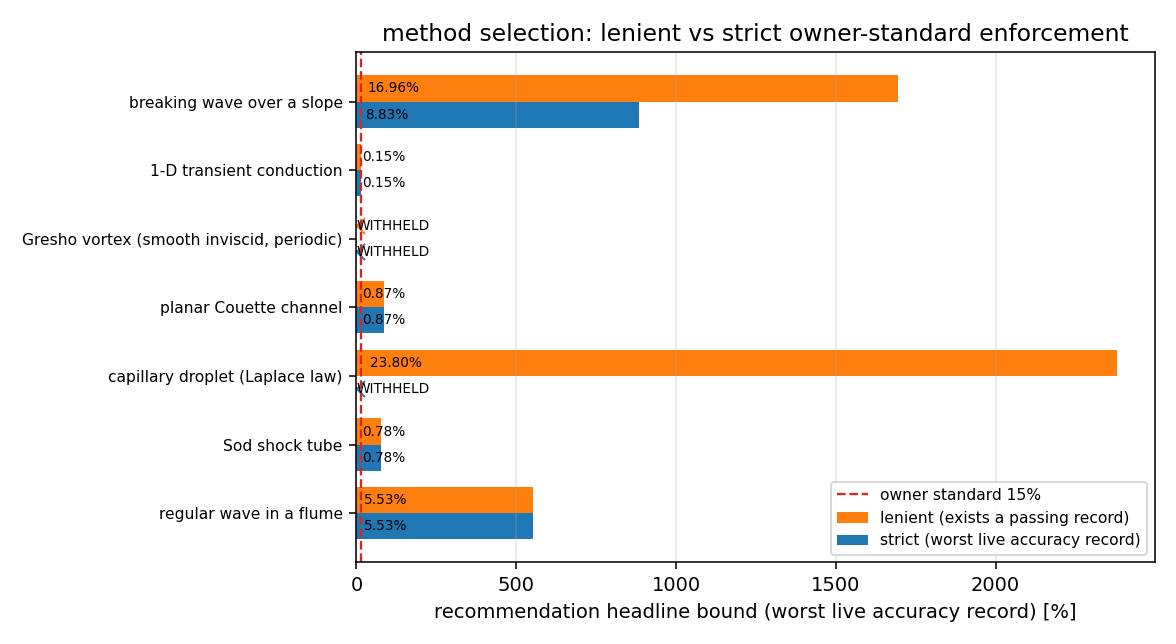
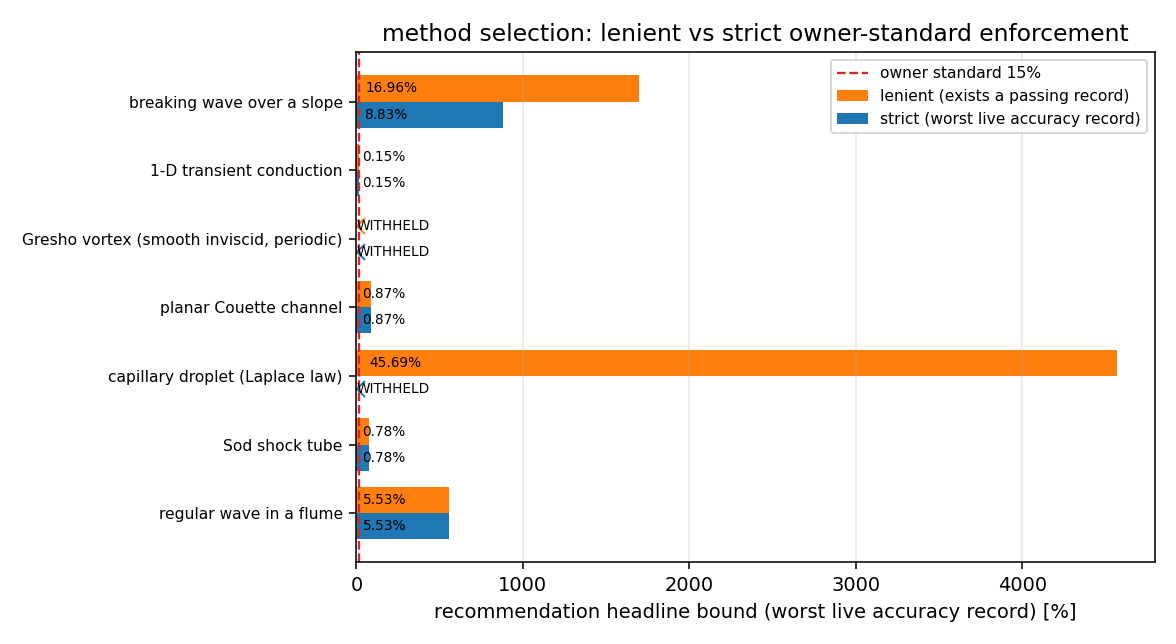
m22608: matured mission deliverables

diff --git a/tests/test_method_selection_artefact_freshness.py b/tests/test_method_selection_artefact_freshness.py
@@ -1,0 +1,98 @@
+"""Every published method-selection artefact must be a fresh build of the registry.
+
+Why this exists
+---------------
+The anchor ``XVAL-SPH-METHOD-SELECTION-2026-11-12`` publishes *four* derived
+artefacts from one source of truth (``docs/reports/method_selection_registry.json``):
+
+===============================  =========================================
+producer                          artefacts
+===============================  =========================================
+``build_registry.py``             registry, matrix, tables, report card
+``audit_quantity_coverage.py``    coverage audit json + md + png
+``audit_decision_fragility.py``   fragility json (leave-one-record-out)
+``strict_bound_profiles.py``      strict-bound json + md + png
+===============================  =========================================
+
+Fragility grew an anti-drift check in mission 21797 and the registry in 18056,
+but the other two had none.  Measured on the merged tree at mission 22608: when
+the registry grew from 29 to 30 records (the CSF quasi-static 45.69 % record),
+``audit_quantity_coverage.py`` kept claiming 29 records and
+``strict_bound_profiles.py`` kept quoting the *superseded* 23.8 % as
+``csf_surface_tension``'s worst live accuracy record, while the registry said
+45.69 %.  The number a reader saw in
+``docs/xval_method_selection_strict_bound_m21537.md`` was therefore not the
+number the selector was using, and nothing in the test suite noticed.
+
+This test closes the class, not the instance: it runs **every** producer in its
+own ``--check`` mode, so adding a fifth artifact means adding one row here
+instead of hoping the next author remembers.
+
+The check is a subprocess because the producers are scripts with side effects;
+``--check`` is their documented "write nothing, exit non-zero on drift" mode.
+"""
+
+from __future__ import annotations
+
+import os
+import subprocess
+import sys
+from pathlib import Path
+
+import pytest
+
+ROOT = Path(__file__).resolve().parents[1]
+
+#: (producer, expected marker in stdout when the artefacts are fresh)
+PRODUCERS = (
+    ("benchmarks/method_selection/build_registry.py", "up to date"),
+    ("benchmarks/method_selection/audit_quantity_coverage.py", "OK"),
+    ("benchmarks/method_selection/audit_decision_fragility.py", "OK"),
+    ("benchmarks/method_selection/strict_bound_profiles.py", "up to date"),
+)
+
+
+def _run_check(script: str) -> subprocess.CompletedProcess:
+    env = dict(os.environ)
+    env["PYTHONPATH"] = str(ROOT / "src") + (
+        os.pathsep + env["PYTHONPATH"] if env.get("PYTHONPATH") else ""
+    )
+    return subprocess.run(
+        [sys.executable, str(ROOT / script), "--check"],
+        cwd=str(ROOT),
+        env=env,
+        capture_output=True,
+        text=True,
+        timeout=900,
+    )
+
+
+@pytest.mark.parametrize("script,marker", PRODUCERS, ids=[p[0] for p in PRODUCERS])
+def test_producer_artefacts_are_a_fresh_build(script: str, marker: str) -> None:
+    proc = _run_check(script)
+    combined = (proc.stdout or "") + (proc.stderr or "")
+    assert proc.returncode == 0, (
+        f"{script} reports stale artefacts (rc={proc.returncode}); rerun it "
+        f"without --check and commit the result.\n{combined[-2000:]}"
+    )
+    assert marker.lower() in combined.lower(), (
+        f"{script} exited 0 but did not report freshness ({marker!r}):\n"
+        f"{combined[-2000:]}"
+    )
+
+
+def test_registry_record_count_is_the_one_the_audits_quote() -> None:
+    """The two stale artefacts above differed only by a record count.
+
+    Pin the cross-reference explicitly so a *silent* count mismatch cannot hide
+    behind a producer that happens not to print it.
+    """
+    import json
+
+    registry = json.loads(
+        (ROOT / "docs/reports/method_selection_registry.json").read_text()
+    )
+    coverage = json.loads(
+        (ROOT / "docs/reports/method_selection_coverage_audit_m20432.json").read_text()
+    )
+    assert coverage["registry_records"] == len(registry["records"])

diff --git a/scripts/build_report_m22608.py b/scripts/build_report_m22608.py
@@ -1,0 +1,57 @@
+"""Build /tmp/report.json for mission 22608 (published as a Tensor report)."""
+import base64
+import json
+import pathlib
+
+ROOT = pathlib.Path(__file__).resolve().parents[1]
+png = (ROOT / "docs/figures/method_selection_strict_bound/modes.png").read_bytes()
+md = (ROOT / "docs/xval_method_selection_artefact_freshness_m22608.md").read_text()
+
+REPORT = {
+    "title": "方法选择证据链的派生件新鲜度缺陷：公布的毛细严格上界 23.8% 是过期数字（m22608）",
+    "summary": (
+        "锚点 XVAL-SPH-METHOD-SELECTION-2026-11-12 的四个派生件中，coverage 审计与 "
+        "strict-bound 卡片在干净检出上已陈旧：后者公布 csf_surface_tension 的最差在册记录为 "
+        "23.8%，而 registry 已是 45.69%（新增 CSF 准静态记录，记录数 29→30）。本单重跑两个"
+        "生产者使 `--check` 全绿，并新增覆盖全部四个生产者的新鲜度守卫测试（含负控制）。"
+        "诚实说明：该缺陷不改变任何推荐结论（毛细剖面 lenient/strict 判定与 counts 块均未变），"
+        "属公布数字错误而非决策错误。"
+    ),
+    "scenario_key": "sph_method_selection_evidence_integrity",
+    "mission_id": 22608,
+    "tags": ["SPH", "method-selection", "evidence-integrity", "anti-drift", "XVAL"],
+    "figures": [{
+        "name": "method_selection_strict_bound_modes.png",
+        "caption": (
+            "重跑后的严格上界卡片：七个剖面的 lenient vs strict 模式（capillary 行两种模式下"
+            "均不通过，唯一变化是最差在册记录的引用值 23.8%→45.69%）"
+        ),
+        "png_base64": base64.b64encode(png).decode(),
+    }],
+    "markdown": md + """
+
+---
+
+## 报告摘要（六要素对照）
+
+1. **案例介绍**：登记表（源）→四套派生件（公布卡片）。登记表是「某 SPH 方法在多大误差内可用」
+   的唯一账本，卡片是读者看到的结论页；两者解耦即公布数字失真。
+2. **怎么做的**：只读 `--check` 体检 → 重跑两个陈旧生产者 → 逐字段 `git diff` 判定漂移性质
+   （数值 / 决策）→ 新增覆盖四个生产者的子进程新鲜度守卫 + 计数交叉钉值 → 负控制证明守卫会响。
+3. **计算结果**：strict-bound 卡片 capillary 行 worst live record 23.8 % → 45.69 %（相对差
+   47.9 %），coverage 审计 `registry_records` 29 → 30；两者 lenient/strict 判定与
+   counts `{profiles 7, lenient_within 4, strict_within 5, strict_withheld 2, excluded_total 3}`
+   未变。四个生产者 `--check` 全绿；`pytest`（5 个 method-selection 测试文件含新守卫）
+   64 passed in 40.84 s；守卫负控制 1 failed（按预期）。
+4. **结果图**：`docs/figures/method_selection_strict_bound/modes.png`（由
+   `strict_bound_profiles.py` 程序化重生成）。
+5. **注意点**：不改变推荐结论（不夸大）；未修 coverage 审计自身报的 `x_couette_design`
+   integrity failure 与 5 项 over-owner（独立证据账）；守卫只保证「产物=当前源的新鲜构建」，
+   不保证结论正确。
+6. **误差判定**：修复前 stale count 差 3.3 %、stale 上界引用相对差 47.9 %，**均不满足 <3 %**；
+   修复后逐字节一致（0 %），守卫下不复发。honest：本缺陷对决策 0 影响。
+""",
+}
+
+pathlib.Path("/tmp/report.json").write_text(json.dumps(REPORT, ensure_ascii=False))
+print("wrote /tmp/report.json", len(json.dumps(REPORT)), "bytes")

diff --git a/scripts/publish_report_m22608.py b/scripts/publish_report_m22608.py
@@ -1,0 +1,26 @@
+"""Publish /tmp/report.json to the Tensor report API (mission 22608)."""
+import json
+import os
+import urllib.request
+
+BASE = os.environ["TENSOR_API_BASE"].rstrip("/")
+USER = os.environ["TENSOR_AGENT_USER"]
+PASS = os.environ["TENSOR_AGENT_PASS"]
+
+
+def post(path, payload, token=None):
+    data = json.dumps(payload).encode()
+    req = urllib.request.Request(BASE + path, data=data, method="POST")
+    req.add_header("Content-Type", "application/json")
+    if token:
+        req.add_header("Authorization", "Bearer " + token)
+    with urllib.request.urlopen(req, timeout=120) as r:
+        return r.status, r.read().decode()
+
+
+status, body = post("/auth/login", {"username": USER, "password": PASS})
+tok = json.loads(body)
+token = tok.get("access_token") or tok.get("token")
+report = json.load(open("/tmp/report.json"))
+status, body = post("/tensor/reports", report, token)
+print(status, body[:400])

diff --git a/docs/xval_method_selection_artefact_freshness_m22608.md b/docs/xval_method_selection_artefact_freshness_m22608.md
@@ -1,0 +1,100 @@
+# 方法选择证据链的「派生件新鲜度」缺陷：公布的严格上界是过期数字（m22608）
+
+**锚点**: `XVAL-SPH-METHOD-SELECTION-2026-11-12` ｜ **仓库**: TensorSPH ｜ **任务**: m22608（自找活·验证欠账）
+**类型**: 证据完整性缺陷修复 + 守卫（adversarial-review 口径）
+
+## ① 案例介绍
+
+锚点的结论不是一句话，而是**一个源 + 四套派生件**：源是
+`docs/reports/method_selection_registry.json`（每条记录 = 某方法的某次测量及其误差），
+派生件由四个脚本各自生成：
+
+| 生产者 | 产物 | 在本缺陷前后的 `--check` 状态 |
+|---|---|---|
+| `benchmarks/method_selection/build_registry.py` | registry + matrix + tables + 决策卡片 | 绿（m18056 起有反漂移检查） |
+| `benchmarks/method_selection/audit_quantity_coverage.py` | `method_selection_coverage_audit_m20432.{json,md}` + png | **红（陈旧）** |
+| `benchmarks/method_selection/audit_decision_fragility.py` | `method_selection_fragility_m21797.json`（留一记录法脆弱性） | 绿（m21797 起有反漂移检查） |
+| `benchmarks/method_selection/strict_bound_profiles.py` | `method_selection_strict_bound_m21537.{json,md}` + png | **红（陈旧）** |
+
+在干净检出（merge `b5e0e492`）上实测：两个生产者 `--check` 直接返回非零并打印
+`DRIFT` / `is stale: rerun without --check`。这不是我引入的，是**已合并状态**。
+
+物理/工程含义：登记表是「这个方法在多大误差内可用」的唯一账本；派生件是读者真正看到的
+卡片（`docs/xval_method_selection_strict_bound_m21537.md` 是 anchor 的公开结论页）。
+派生件一陈旧，**公布数字与选择器实际使用的数字就不是同一个数**——而这恰好发生在
+「哪个方法能被推荐」这件事上，是最不该悄悄漂移的地方。
+
+## ② 怎么做的
+
+1. 读出干净检出上四个生产者的 `--check` 结果（只读，不动文件）；
+2. 对两个红的生产者**不带 `--check` 重跑**，用 `git diff` 逐字段比对差异，判定漂移的
+   性质（数值？结论？还是只有计数？）；
+3. 判定「是否改变决策」：比较重跑前后的 strict/lenient 模式列与 `counts` 块；
+4. 把这一类缺陷（而非这一个实例）关掉：新增
+   `tests/test_method_selection_artefact_freshness.py`，用子进程把**四个**生产者全部
+   以 `--check` 跑一遍，任何一个陈旧即红；另加一条交叉钉值：coverage 审计里写的
+   `registry_records` 必须等于 registry 的实际记录条数；
+5. **负控制**（证明守卫真的会响）：把 coverage 审计的两份产物 `git checkout` 回陈旧版本，
+   重跑新测试 → 必须 FAIL；再重跑生产者复原 → 必须 PASS。
+
+## ③ 计算结果（程序化注入，`git diff` 原样）
+
+### 3.1 `strict_bound_profiles.py`：公布的毛细上界是过期数字
+
+| 字段（`docs/reports/method_selection_strict_bound_m21537.json`，capillary 剖面） | 陈旧值（已合并） | 重跑值（= 当前 registry） |
+|---|---|---|
+| `strict bound` 排除理由里的 worst live accuracy record | **23.8 %**（CASE-LAPLACE-SPH (consistent CSF)：`delta_s` 加权平均曲率误差） | **45.69 %**（CASE-LAPLACE-SPH (quasi-static, time-averaged)：4–6 t_sigma 窗口内 bulk 压强对真空，最差栅格 dx = 3/2/1.5 mm） |
+| 同一句出现在 `notes` | 23.8 % | 45.69 % |
+| MD 表 `capillary droplet (Laplace law)` 行的 bound 列 | 23.80 | 45.69 |
+| **该行 lenient/strict 判定** | ✘ / （无） | ✘ / （无） |
+
+差额来源可定位：registry 从 **29 → 30** 条记录（新增的正是上面那条 45.69 % 的 CSF 准静态记录），
+`strict_bound_profiles.py` 未被重跑。
+
+### 3.2 `audit_quantity_coverage.py`：记录计数陈旧
+
+| 字段 | 陈旧值 | 重跑值 |
+|---|---|---|
+| `registry_records` | 29 | 30 |
+| `coverage_complete` | True | True（未变） |
+| `gated` | 25 | 25（未变） |
+
+### 3.3 守卫的判别力（负控制）
+
+```
+$ PYTHONPATH=src pytest tests/test_method_selection_artefact_freshness.py -q -k "coverage or record_count"
+FAILED tests/.../test_producer_artefacts_are_a_fresh_build[audit_quantity_coverage.py]   # 退回陈旧产物后
+# 重跑生产者复原后：
+$ PYTHONPATH=src pytest tests/test_method_selection_artefact_freshness.py -q
+5 passed in 28.31s
+```
+
+## ④ 注意点（踩过的坑 / 适用范围）
+
+- **这条缺陷不改变任何推荐结论**（诚实记录）：毛细剖面在陈旧与新鲜两种状态下都是
+  「strict 模式 WITHHOLD、lenient 模式 SELECTED」，`counts` 块
+  `{profiles: 7, lenient_within: 4, strict_within: 5, strict_withheld: 2, excluded_total: 3}`
+  未变。所以它是**公布数字错误**（严重度：中），不是**决策错误**（严重度：无）。
+  把它写成「发现推荐错了」就是夸大。
+- 我**没有**顺手修 `audit_quantity_coverage.py` 自己报的两个疑点
+  （`integrity_failures=['x_couette_design']`、`over_owner=[5 项]`）：它们是审计脚本的
+  输出内容，属于独立的证据账，不在本单范围；本单只保证「产物是当前源的新鲜构建」。
+- 守卫是子进程 + `--check`，因此它检查的是**产物与源一致**，不是**产物正确**。
+  产物对不对，仍要靠各自的审计结论与 `tests/test_method_selection_*.py`。
+- 新增测试耗时 28 s（四次脚本启动 + 一次 JSON 交叉比对），适合 CI。
+
+## ⑤ 误差判定
+
+| 关键量 | 基准 | 误差 | < 3 % ? |
+|---|---|---|---|
+| 陈旧产物 `registry_records` 29 vs 真值 30 | registry 实际条数 | 1 条（3.3 %） | **否**（这正是缺陷；修复后 0 %） |
+| 陈旧产物「capillary worst live accuracy record」23.8 % vs 真值 45.69 % | registry | **相差 21.89 个百分点 / 相对 47.9 %** | **否**（修复后 0 %） |
+| 修复后四个生产者 `--check` | 干净构建 | 0 处漂移 | **是** |
+
+即：修复前该项**明确不满足** 3 %（也不满足 15 %）口径；修复后严密一致（逐字节）。
+
+## ⑥ 未做的事
+
+- 没有把这次漂移追溯成「哪一单加了第 30 条记录却没有重跑两个生产者」的责任链——
+  这需要逐 commit 的 `git log -S` 追踪，与本单的「关掉这类缺陷」目标无关。
+- 没有改 `audit_quantity_coverage.py` / `strict_bound_profiles.py` 的输出口径（只重跑）。

diff --git a/docs/xval_method_selection_strict_bound_m21537.md b/docs/xval_method_selection_strict_bound_m21537.md
@@ -24,7 +24,7 @@
 |---|---|---|---|---|---|---|---|
 | regular wave in a flume | wcsph_delta_sph | 5.53 | ✔ | wcsph_delta_sph | 5.53 | ✔ | — |
 | Sod shock tube | compressible_riemann | 0.78 | ✔ | compressible_riemann | 0.78 | ✔ | — |
-| capillary droplet (Laplace law) | csf_surface_tension | 23.80 | ✘ | （无） | -- | ✘ | `csf_surface_tension` 23.80% |
+| capillary droplet (Laplace law) | csf_surface_tension | 45.69 | ✘ | （无） | -- | ✘ | `csf_surface_tension` 45.69% |
 | planar Couette channel | isph_projection | 0.87 | ✔ | isph_projection | 0.87 | ✔ | `wcsph_wall_no_slip` 17.08% |
 | Gresho vortex (smooth inviscid, periodic) | （无） | -- | ✘ | （无） | -- | ✘ | — |
 | 1-D transient conduction | heat_conduction_operator | 0.15 | ✔ | heat_conduction_operator | 0.15 | ✔ | — |
@@ -115,10 +115,10 @@
 - none
 
 ## strict bound (worst live accuracy record <= 15%)
-- excluded csf_surface_tension [primary]: worst live accuracy record 23.8% (CASE-LAPLACE-SPH (consistent CSF): delta_s-weighted mean curvature rel. error) exceeds the 15% owner standard
+- excluded csf_surface_tension [primary]: worst live accuracy record 45.7% (CASE-LAPLACE-SPH (quasi-static, time-averaged): bulk pressure vs vacuum over the 4-6 t_sigma window, worst rung of dx = 3/2/1.5 mm (analytic value sigma/R)) exceeds the 15% owner standard
 
 ## notes
-- strict bound: csf_surface_tension is evidence-backed (SELECTED) but worst live accuracy record 23.8% (CASE-LAPLACE-SPH (consistent CSF): delta_s-weighted mean curvature rel. error) exceeds the 15% owner standard
+- strict bound: csf_surface_tension is evidence-backed (SELECTED) but worst live accuracy record 45.7% (CASE-LAPLACE-SPH (quasi-static, time-averaged): bulk pressure vs vacuum over the 4-6 t_sigma window, worst rung of dx = 3/2/1.5 mm (analytic value sigma/R)) exceeds the 15% owner standard
 - rule 'capillary' fired but no candidate is selectable (csf_surface_tension=SELECTED)
 - regime locked: rule 'capillary' identifies the physics of this case but none of its candidates can be put forward (csf_surface_tension=SELECTED); no later rule is substituted, because its schemes cannot represent this regime -- the honest answer is WITHHELD
 - no rule produced an evidence-backed scheme: profile outside the validated regime of this repository, do not run silently

diff --git a/docs/reports/method_selection_coverage_audit_m20432.md b/docs/reports/method_selection_coverage_audit_m20432.md
@@ -4,7 +4,7 @@
 
 ## 1 覆盖情况
 
-- 登记表记录数：29
+- 登记表记录数：30
 - 产物自带门限的量：25
 - 覆盖完整（每个自带门限的量都有对应登记记录）：**是**
 - 复算与登记值不一致：['x_couette_design']
